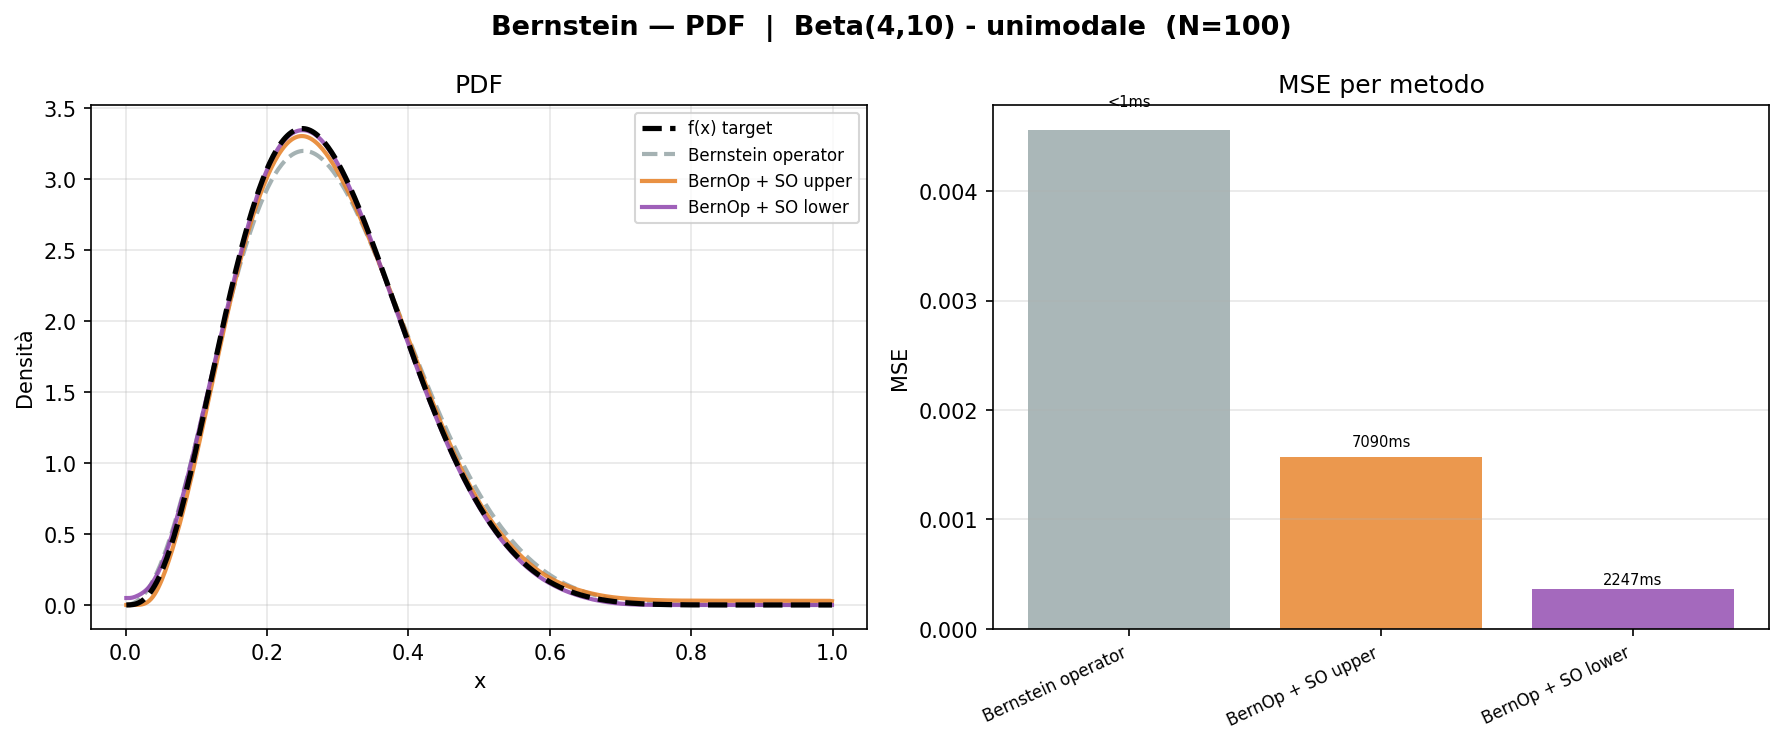
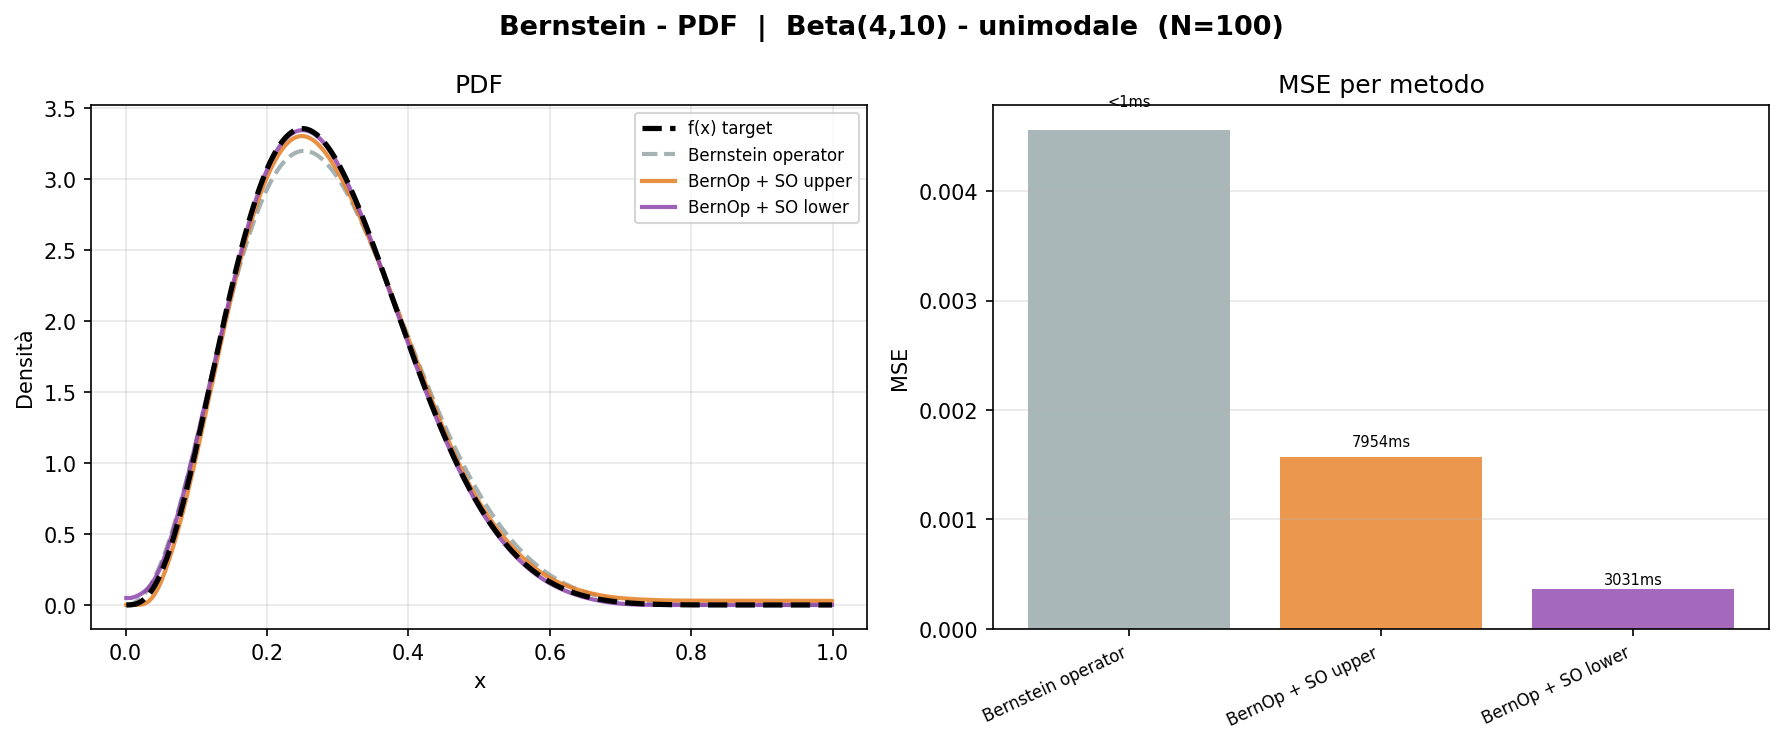
Small changes

Changed region(s): [[0.2775, 0.0, 0.7399, 0.0618], [0.8941, 0.7728, 0.9249, 0.8038], [0.7707, 0.5874, 0.8016, 0.6183]]

diff --git a/bern_bernSOupp_bernSOlow.py b/bern_bernSOupp_bernSOlow.py
@@ -131,7 +131,7 @@ def plot_bern_pdf(results: dict, save_path: str | None = None):
     N, name  = results['N'], results['name']
 
     fig, (ax_pdf, ax_mse) = plt.subplots(1, 2, figsize=(12, 5))
-    fig.suptitle(f'Bernstein — PDF  |  {name}  (N={N})',
+    fig.suptitle(f'Bernstein - PDF  |  {name}  (N={N})',
                  fontsize=13, fontweight='bold')
 
     ax_pdf.plot(x, f, 'k--', lw=2.5, zorder=6, label='f(x) target')
@@ -175,7 +175,7 @@ def plot_bern_cdf(results: dict, save_path: str | None = None):
     cdf_t        = _cdf_target(f, dx)
 
     fig, ax = plt.subplots(figsize=(8, 5))
-    fig.suptitle(f'Bernstein — CDF  |  {name}  (N={N})',
+    fig.suptitle(f'Bernstein - CDF  |  {name}  (N={N})',
                  fontsize=12, fontweight='bold')
 
     ax.plot(x, cdf_t, 'k--', lw=2.5, zorder=6, label='CDF target')
@@ -203,7 +203,7 @@ def plot_bern_weights(results: dict, save_path: str | None = None):
     keys  = list(STYLE.keys())
 
     fig, axes = plt.subplots(1, 3, figsize=(13, 4), sharey=True)
-    fig.suptitle(f'Bernstein — Pesi W  |  {results["name"]}  (N={N})',
+    fig.suptitle(f'Bernstein - Pesi W  |  {results["name"]}  (N={N})',
                  fontsize=11, fontweight='bold')
 
     for ax, key in zip(axes, keys):
@@ -232,7 +232,7 @@ def plot_bern_delta(results: dict, save_path: str | None = None):
     so_keys = ['bernstein_op_upper', 'bernstein_op_lower']
 
     fig, axes = plt.subplots(2, 2, figsize=(11, 7))
-    fig.suptitle(f'Bernstein — Delta = W_new − W_ref  |  '
+    fig.suptitle(f'Bernstein - Delta = W_new - W_ref  |  '
                  f'{results["name"]}  (N={N})',
                  fontsize=11, fontweight='bold')
 

diff --git a/bern_scipy_torch_noSO.py b/bern_scipy_torch_noSO.py
@@ -100,7 +100,7 @@ def plot_simple_pdf(results: dict, save_path: str | None = None):
     N, name  = results['N'], results['name']
 
     fig, (ax_pdf, ax_mse) = plt.subplots(1, 2, figsize=(12, 5))
-    fig.suptitle(f'Approssimazione PDF — {name}  (N={N})',
+    fig.suptitle(f'Approssimazione PDF - {name}  (N={N})',
                  fontsize=13, fontweight='bold')
 
     ax_pdf.plot(x, f, 'k--', lw=2.5, zorder=6, label='f(x) target')
@@ -144,7 +144,7 @@ def plot_simple_cdf(results: dict, save_path: str | None = None):
     cdf_t        = _cdf_target(f, dx)
 
     fig, ax = plt.subplots(figsize=(8, 5))
-    fig.suptitle(f'CDF — {name}  (N={N})', fontsize=12, fontweight='bold')
+    fig.suptitle(f'CDF - {name}  (N={N})', fontsize=12, fontweight='bold')
 
     ax.plot(x, cdf_t, 'k--', lw=2.5, zorder=6, label='CDF target')
     for key, st in STYLE.items():
@@ -171,7 +171,7 @@ def plot_simple_weights(results: dict, save_path: str | None = None):
     keys  = list(STYLE.keys())
 
     fig, axes = plt.subplots(1, 3, figsize=(12, 4), sharey=True)
-    fig.suptitle(f'Pesi W — {results["name"]}  (N={N})',
+    fig.suptitle(f'Pesi W - {results["name"]}  (N={N})',
                  fontsize=11, fontweight='bold')
 
     for ax, key in zip(axes, keys):
